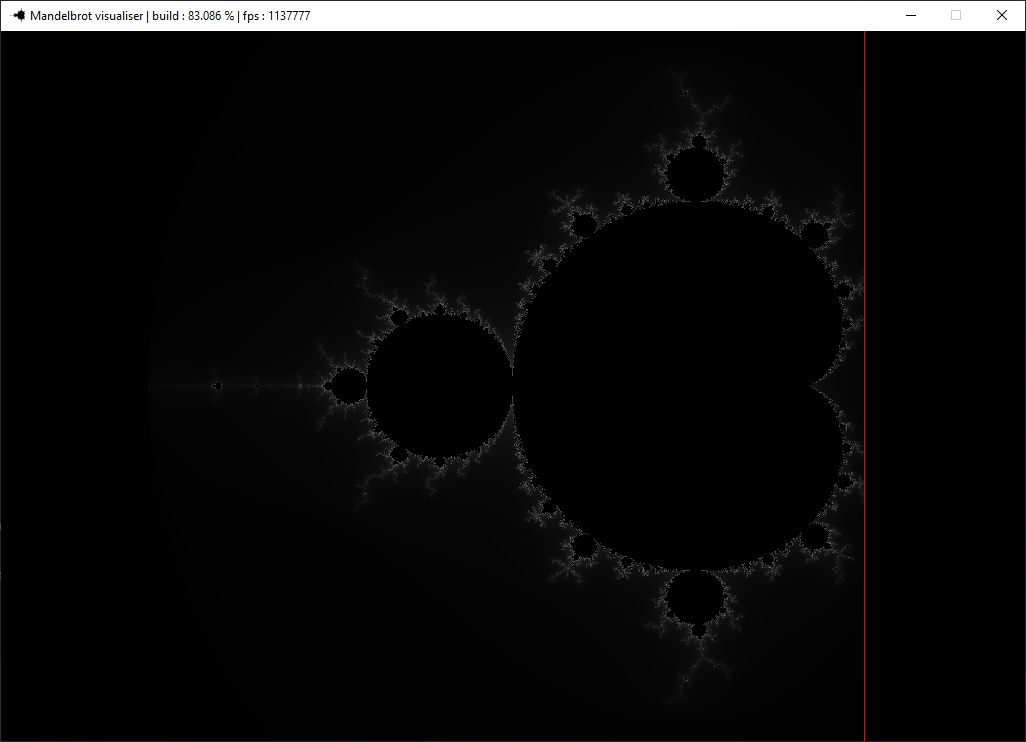
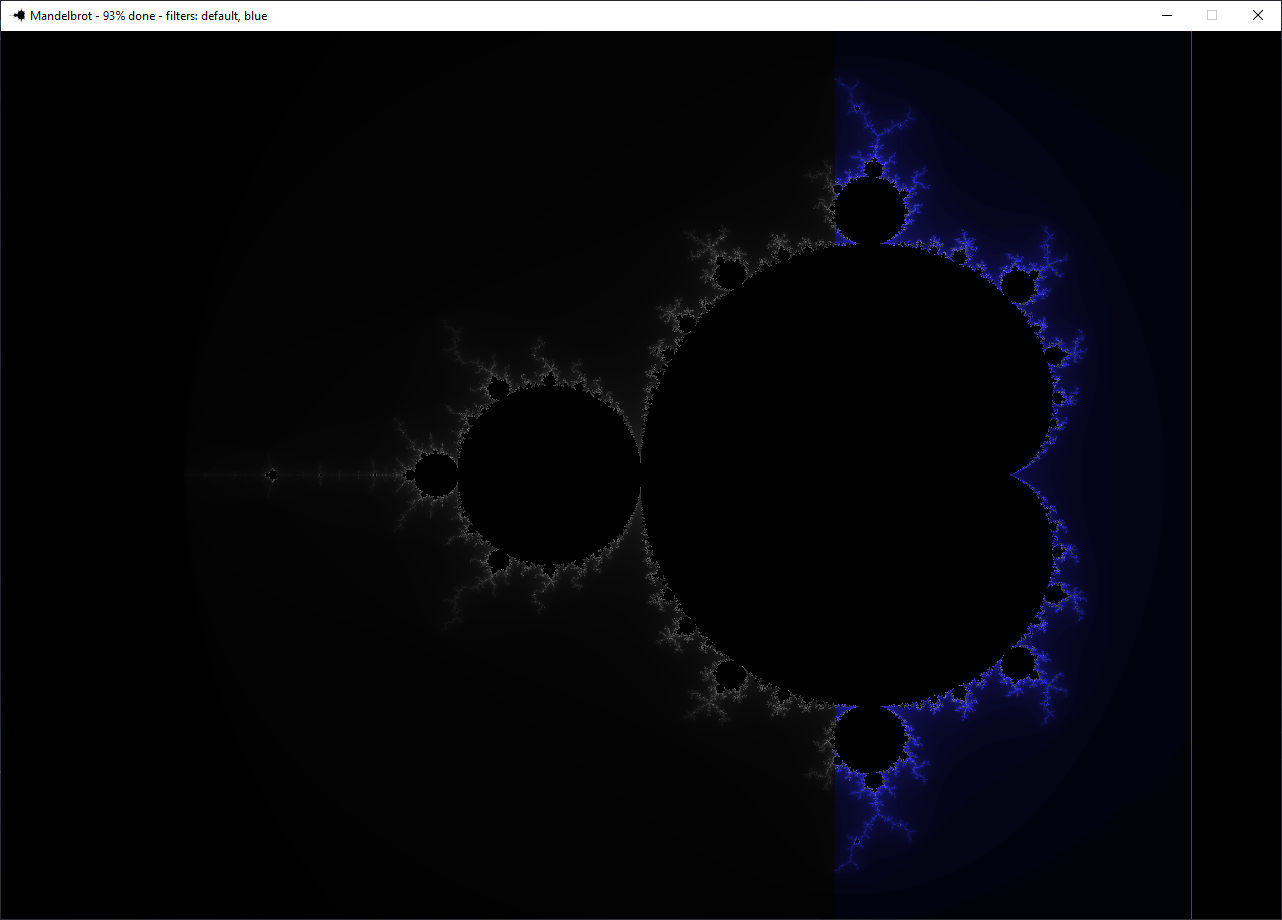
update

diff --git a/main.py b/main.py
@@ -5,10 +5,13 @@ import pygame
 from pygame import gfxdraw  # Module not present in pygame default import, why ?
 from numba import njit
 
-win_size_x = 1024
-win_size_y = 710
-RED = (255, 0, 0)
+RATIO = .69375
 
+win_size_x = 1280
+win_size_y = int(win_size_x * RATIO)
+
+RED = (255, 0, 0)
+WHITE = (255, 255, 255)
 pygame.init()
 
 clock = pygame.time.Clock()
@@ -20,7 +23,8 @@ pygame.display.set_icon(icon)
 
 class Filter:
 
-    def __init__(self, condition, modifier):
+    def __init__(self, name, condition, modifier):
+        self.name = name
         self.condition = condition
         self.modifier = modifier
 
@@ -49,11 +53,12 @@ class App:
     def __init__(self):
         self.is_running = True
         self.show_progress_bar = True
+
         self.filters = [
-            Filter(lambda i, n: (i / n) % 2, default_filter),
+            Filter('default', lambda i, n: (i / n) % 2, default_filter),
             # Add your filters here !
 
-            Filter(lambda: True, lambda i, n: ((c := math.sqrt((i / n)) * 255) // 2, c // 2, c))
+            Filter('blue', lambda: True, lambda r, g, b: (r, g, (b * 5) % 255))
         ]
 
         if len(self.filters) > 10:
@@ -84,11 +89,12 @@ class App:
 
             self.active_filters.append(key)
 
-    def get_color(self, i, n, z):
+    def get_color(self, i, n, z, x, y):
         rgb = [0] * 3
 
         for filter_index in self.active_filters:
-            rgb = self.filters[filter_index].apply(rgb=rgb, i=i, n=n, z=z)
+            r, g, b = rgb
+            rgb = self.filters[filter_index].apply(rgb=rgb, i=i, n=n, z=z, r=r, g=g, b=b, x=x, y=y)
 
         return rgb
 
@@ -102,12 +108,19 @@ class App:
 
             for y in range(win_size_y):
                 x, i, n, z = next(mandelbrot_points)
-                gfxdraw.pixel(screen, x, y, self.get_color(i, n, z))
+                gfxdraw.pixel(screen, x, y, self.get_color(i, n, z, x, y))
 
             if self.show_progress_bar:
                 gfxdraw.line(screen, x + 1, 0, x + 1, win_size_y, RED)
 
-            pygame.display.set_caption(f"Mandelbrot - {((x * y) / (win_size_x * win_size_y)) * 100:0>2.0f}% done")
+            filter_text = ', '.join(self.filters[filter_index].name for filter_index in self.active_filters)
+            if not len(filter_text):
+                filter_text = 'none'
+
+            pygame.display.set_caption(
+                f"Mandelbrot - {((x * y) / (win_size_x * win_size_y)) * 100:0>2.0f}% done - filters: {filter_text}"
+            )
+
             pygame.display.update()
             clock.tick(-1)
 
